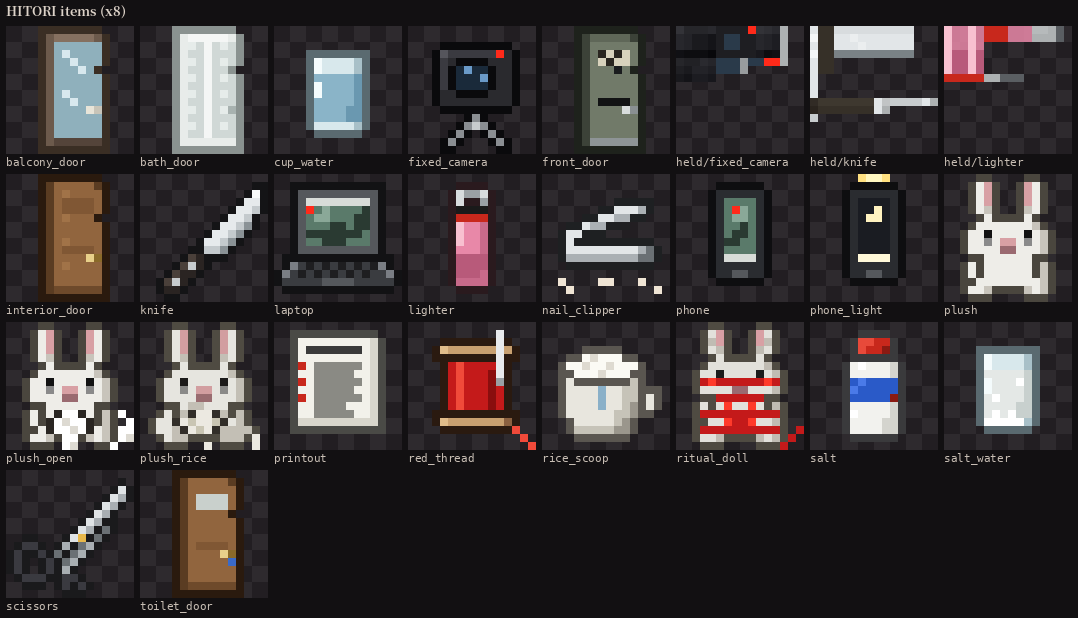
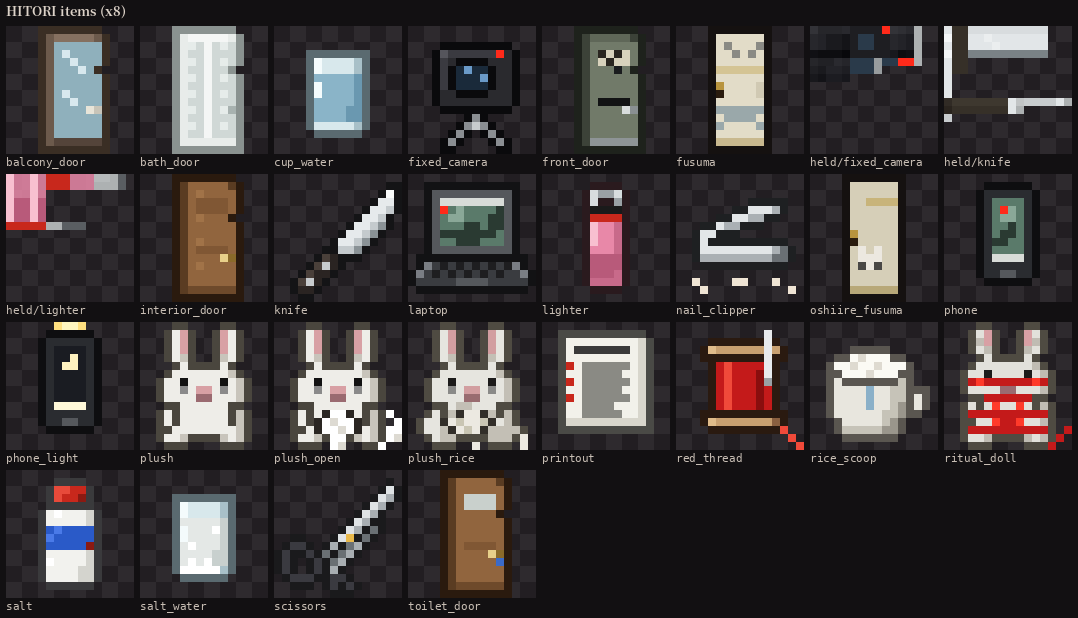
Art: TV dark-room channel legible (pale closet panels, the table, a figure in frames 5-8), the face channel rougher and lit, puddle ripples as clean pixel rings
Claude-Session: https://claude.ai/code/session_017h8AWA8SMb3MbjFEftA5Gv

Changed region(s): [[0.0, 0.2767, 0.6122, 1.0], [0.6122, 0.0307, 1.0, 0.7686]]

diff --git a/tools/art/hk_washitsu.py b/tools/art/hk_washitsu.py
@@ -152,28 +152,29 @@ def _dark_room_frame(i):
     w, h = 16, 12
     a = blank(16, 16, '#000000')
     x, y = grid(w, h)
-    img = np.zeros((h, w, 3)) + np.array([18, 24, 26])
+    img = np.zeros((h, w, 3)) + np.array([34, 42, 44])
     # floor (tatami lines in perspective) in the lower half
     floor = y >= 5
-    img[floor] = (34, 38, 30)
+    img[floor] = (62, 68, 54)
     for k in range(3):
         xx = 3 + k * 5 + (y - 5) * (k - 1) * 0.5
-        img[floor & (np.abs(x - xx) < 0.6)] = (20, 22, 18)
+        img[floor & (np.abs(x - xx) < 0.6)] = (30, 32, 26)
     # back wall with the closet fusuma (two pale panels) on the left
-    img[(y < 5) & (x < 7)] = (52, 56, 52)
-    img[(y < 5) & (x == 3)] = (26, 28, 26)
-    img[(y < 5) & (x >= 7)] = (28, 32, 34)
-    # the low table: a dark ellipse
+    img[(y < 5) & (x < 7)] = (96, 102, 96)
+    img[(y < 5) & (x == 3)] = (40, 42, 40)
+    img[(y < 5) & (x >= 7)] = (46, 52, 56)
+    # the low table: a dark ellipse with a lit rim
     tab = ((x + 0.5 - 9.0) / 3.0) ** 2 + ((y + 0.5 - 8.0) / 1.4) ** 2 < 1
-    img[tab] = (10, 10, 10)
+    img[tab] = (14, 14, 14)
+    img[tab & (y == 7)] = (70, 60, 56)
     # the TV's own glow in the right corner (a bright square = the screen you are looking at)
-    img[(x >= 13) & (x <= 14) & (y >= 3) & (y <= 4)] = (150, 160, 170)
-    # a figure in the doorway on frames 5..8: a thin pale-faced silhouette
+    img[(x >= 13) & (x <= 14) & (y >= 3) & (y <= 4)] = (190, 200, 210)
+    # a figure in the doorway on frames 5..8: a thin black silhouette with a pale face
     if 5 <= i <= 8:
-        img[(x == 6) & (y >= 2) & (y <= 7)] = (8, 8, 8)
-        img[(x == 6) & (y == 2)] = (90, 90, 86)
+        img[(x >= 5) & (x <= 6) & (y >= 2) & (y <= 7)] = (6, 6, 6)
+        img[(x == 6) & (y == 2)] = (150, 150, 144)
     nz = r.random((h, w))
-    img += (nz[..., None] - 0.5) * 34
+    img += (nz[..., None] - 0.5) * 40
     # a slow rolling bar
     bar = np.abs(((y + i) % 12) - 3) < 1
     img[bar] *= 1.25
@@ -205,9 +206,15 @@ def _face_frame(i):
     mouth = ((x + 0.5 - fx) / (0.9 * scale)) ** 2 + ((y + 0.5 - (fy + 2.2 * scale)) / (1.1 * scale)) ** 2 < 1
     hair = (((x + 0.5 - fx) / (4.4 * scale)) ** 2 + ((y + 0.5 - (fy - 0.6)) / (5.6 * scale)) ** 2 < 1) & ~face
     img = base.copy()
-    img = np.where(face, img * (1 - strength) + 200 * strength, img)
-    img = np.where(hair, img * (1 - strength) + 12 * strength, img)
-    img = np.where(eyes | mouth, img * (1 - strength) + 6 * strength, img)
+    shade_ = np.clip(1.0 - (y - (fy - 3)) / 10.0, 0.55, 1.0) - np.abs(x + 0.5 - fx) / 12.0
+    face_v = 170 * shade_ + (nz - 0.5) * 60
+    img = np.where(face, img * (1 - strength) + face_v * strength, img)
+    img = np.where(hair, img * (1 - strength) + (10 + nz * 20) * strength, img)
+    img = np.where(eyes | mouth, img * (1 - strength) + 4 * strength, img)
+    # one eye glints (the TV light caught in it)
+    gx, gy = int(fx + 1.4 * scale), int(fy - 0.8 * scale)
+    if strength > 0.8 and 0 <= gx < w and 0 <= gy < h:
+        img[gy, gx] = 200
     corner, vig = _crt_mask(w, h)
     img = img * (0.6 + 0.4 * vig)
     col = np.stack([img * 0.95, img * 0.98, img * 1.04], -1)

diff --git a/tools/art/hk_exterior.py b/tools/art/hk_exterior.py
@@ -522,13 +522,19 @@ def _puddle_frame(i):
     edge = shape & ~(np.roll(shape, 1, 0) & np.roll(shape, -1, 0) & np.roll(shape, 1, 1) & np.roll(shape, -1, 1))
     a[edge] = C('#2a3238', 150)
     r = rng(13802)
-    drops = [(r.uniform(3, 13), r.uniform(3, 13), int(r.integers(0, 16))) for _ in range(9)]
+    drops = [(int(r.integers(3, 13)), int(r.integers(3, 13)), int(r.integers(0, 16))) for _ in range(10)]
+    RINGS = {0: [(0, 0)], 1: [(0, -1), (-1, 0), (1, 0), (0, 1)],
+             2: [(0, -2), (-1, -1), (1, -1), (-2, 0), (2, 0), (-1, 1), (1, 1), (0, 2)],
+             3: [(-1, -3), (0, -3), (1, -3), (-3, -1), (3, -1), (-3, 0), (3, 0), (-3, 1), (3, 1), (-1, 3), (0, 3),
+                 (1, 3), (-2, -2), (2, -2), (-2, 2), (2, 2)]}
     for (cx, cy, t0) in drops:
         age = (i - t0) % 16
-        if age < 4:
-            rr = 0.4 + age * 0.9
-            ring = (np.abs(np.hypot(x + 0.5 - cx, y + 0.5 - cy) - rr) < 0.45) & shape
-            a[ring] = C('#8a9aa6', 230 - age * 45)
+        if age in RINGS:
+            al = (240, 200, 150, 90)[age]
+            for (dx, dy) in RINGS[age]:
+                xx, yy = cx + dx, cy + dy
+                if 0 <= xx < w and 0 <= yy < h and shape[yy, xx]:
+                    a[yy, xx] = C('#9aaab6', al)
     return a
 
 
